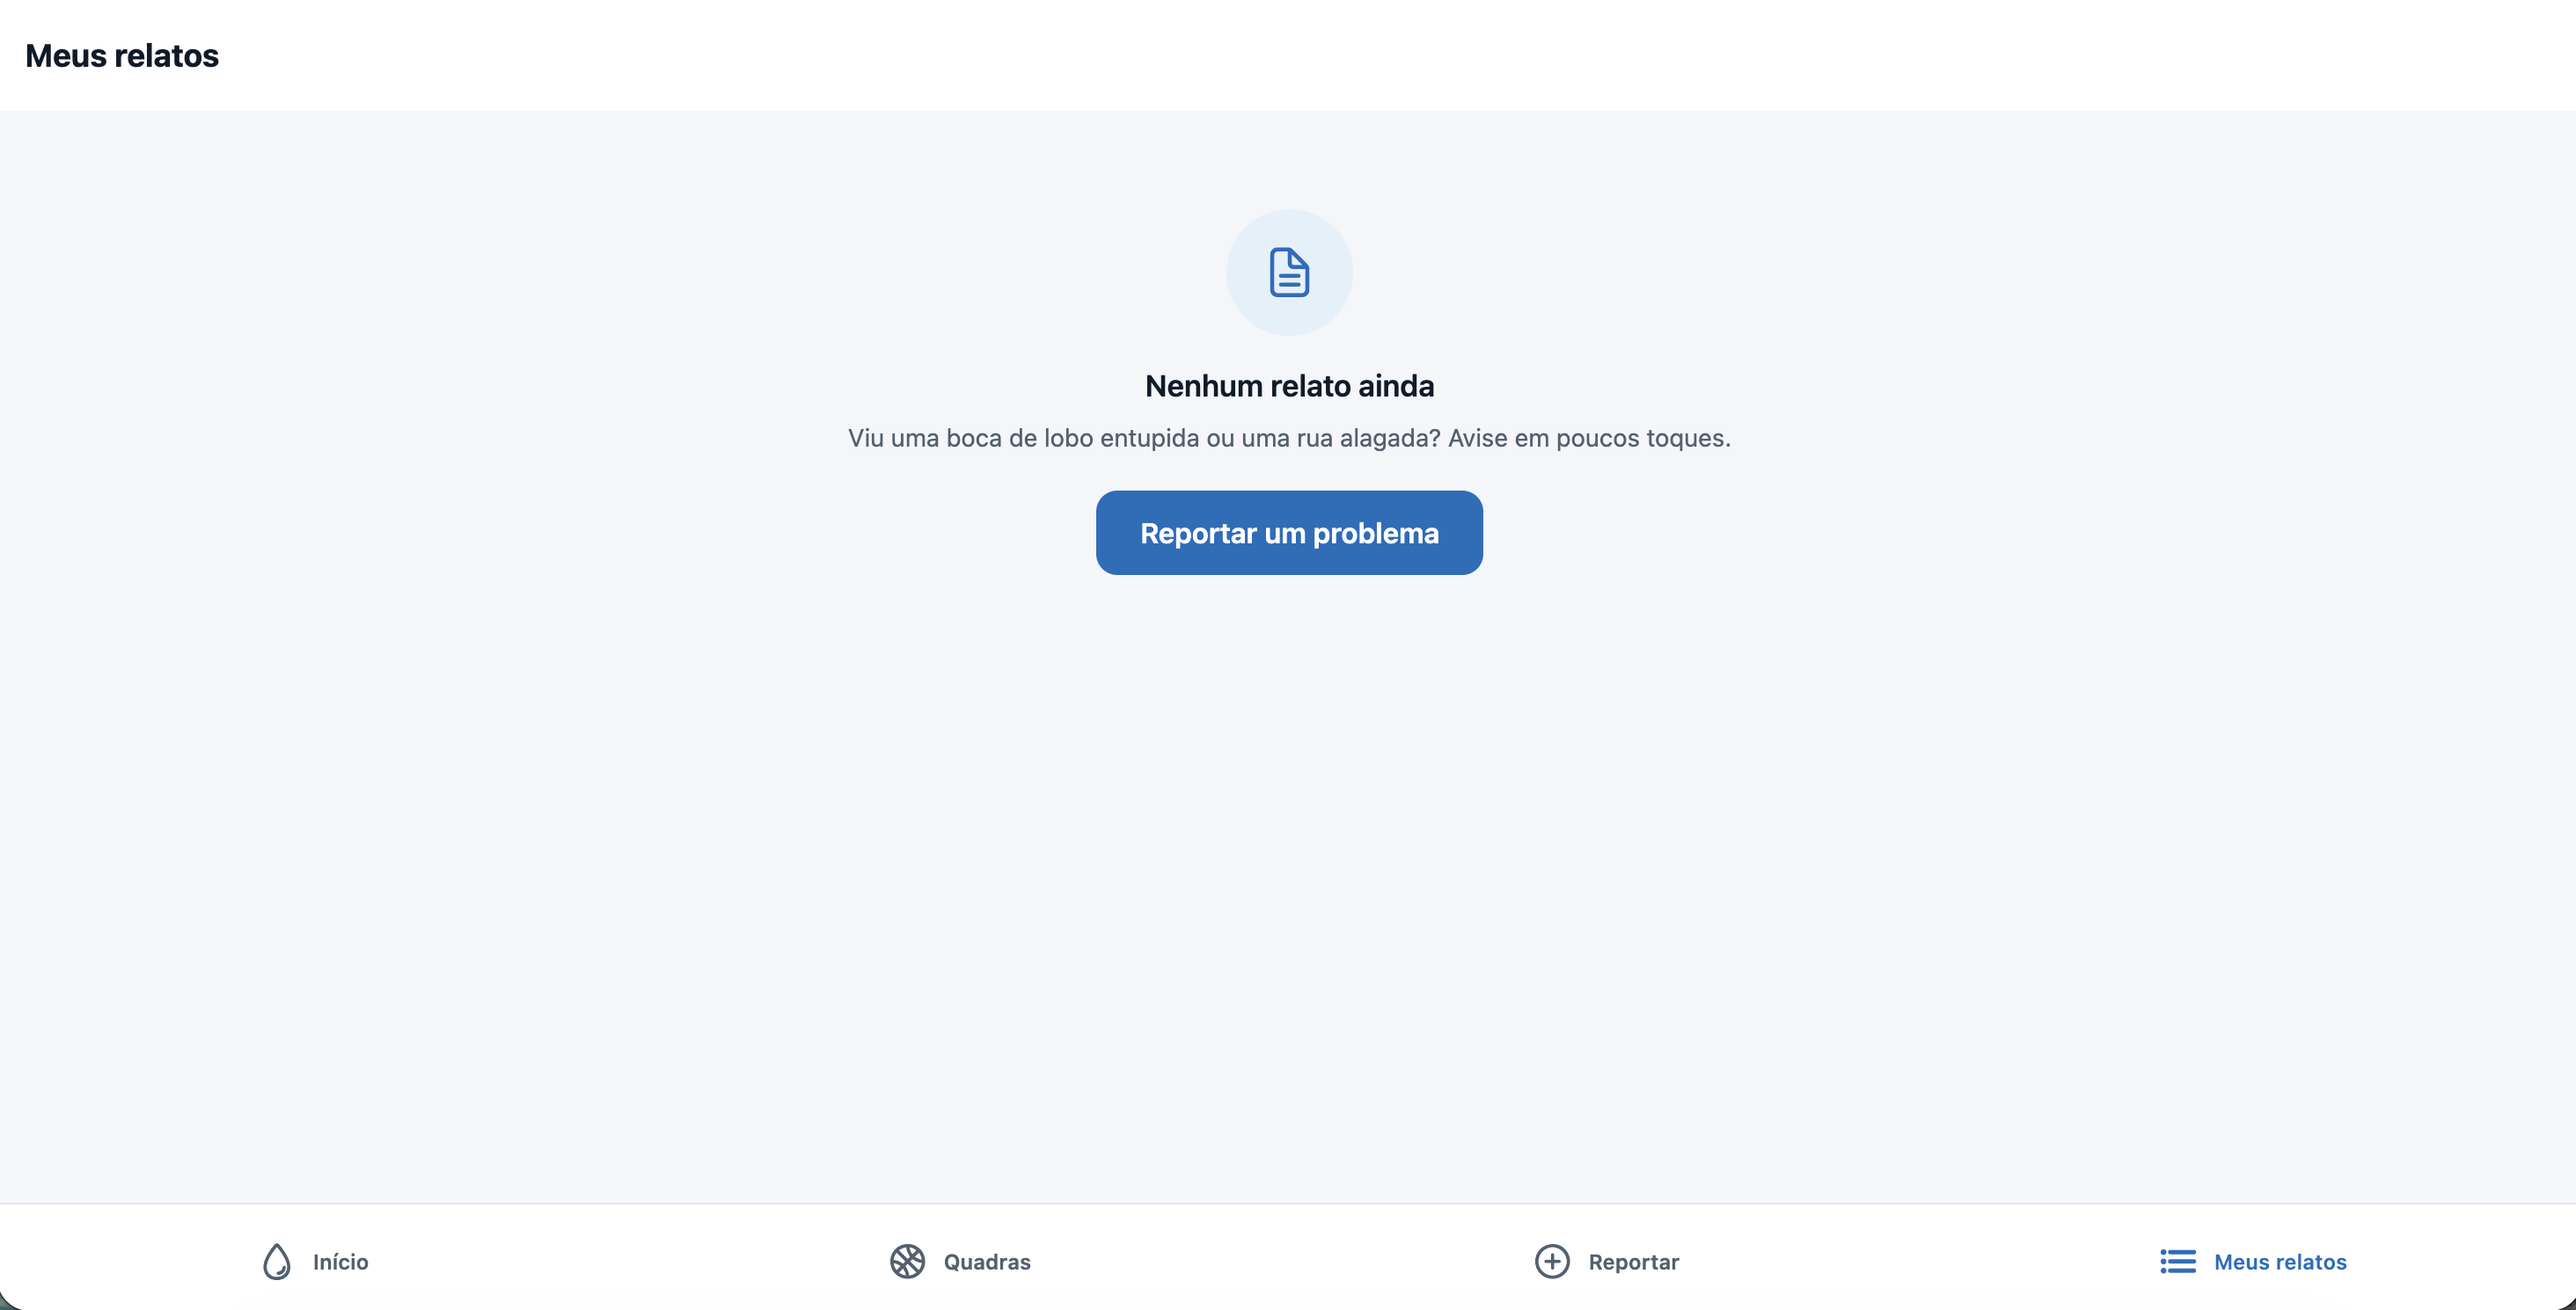
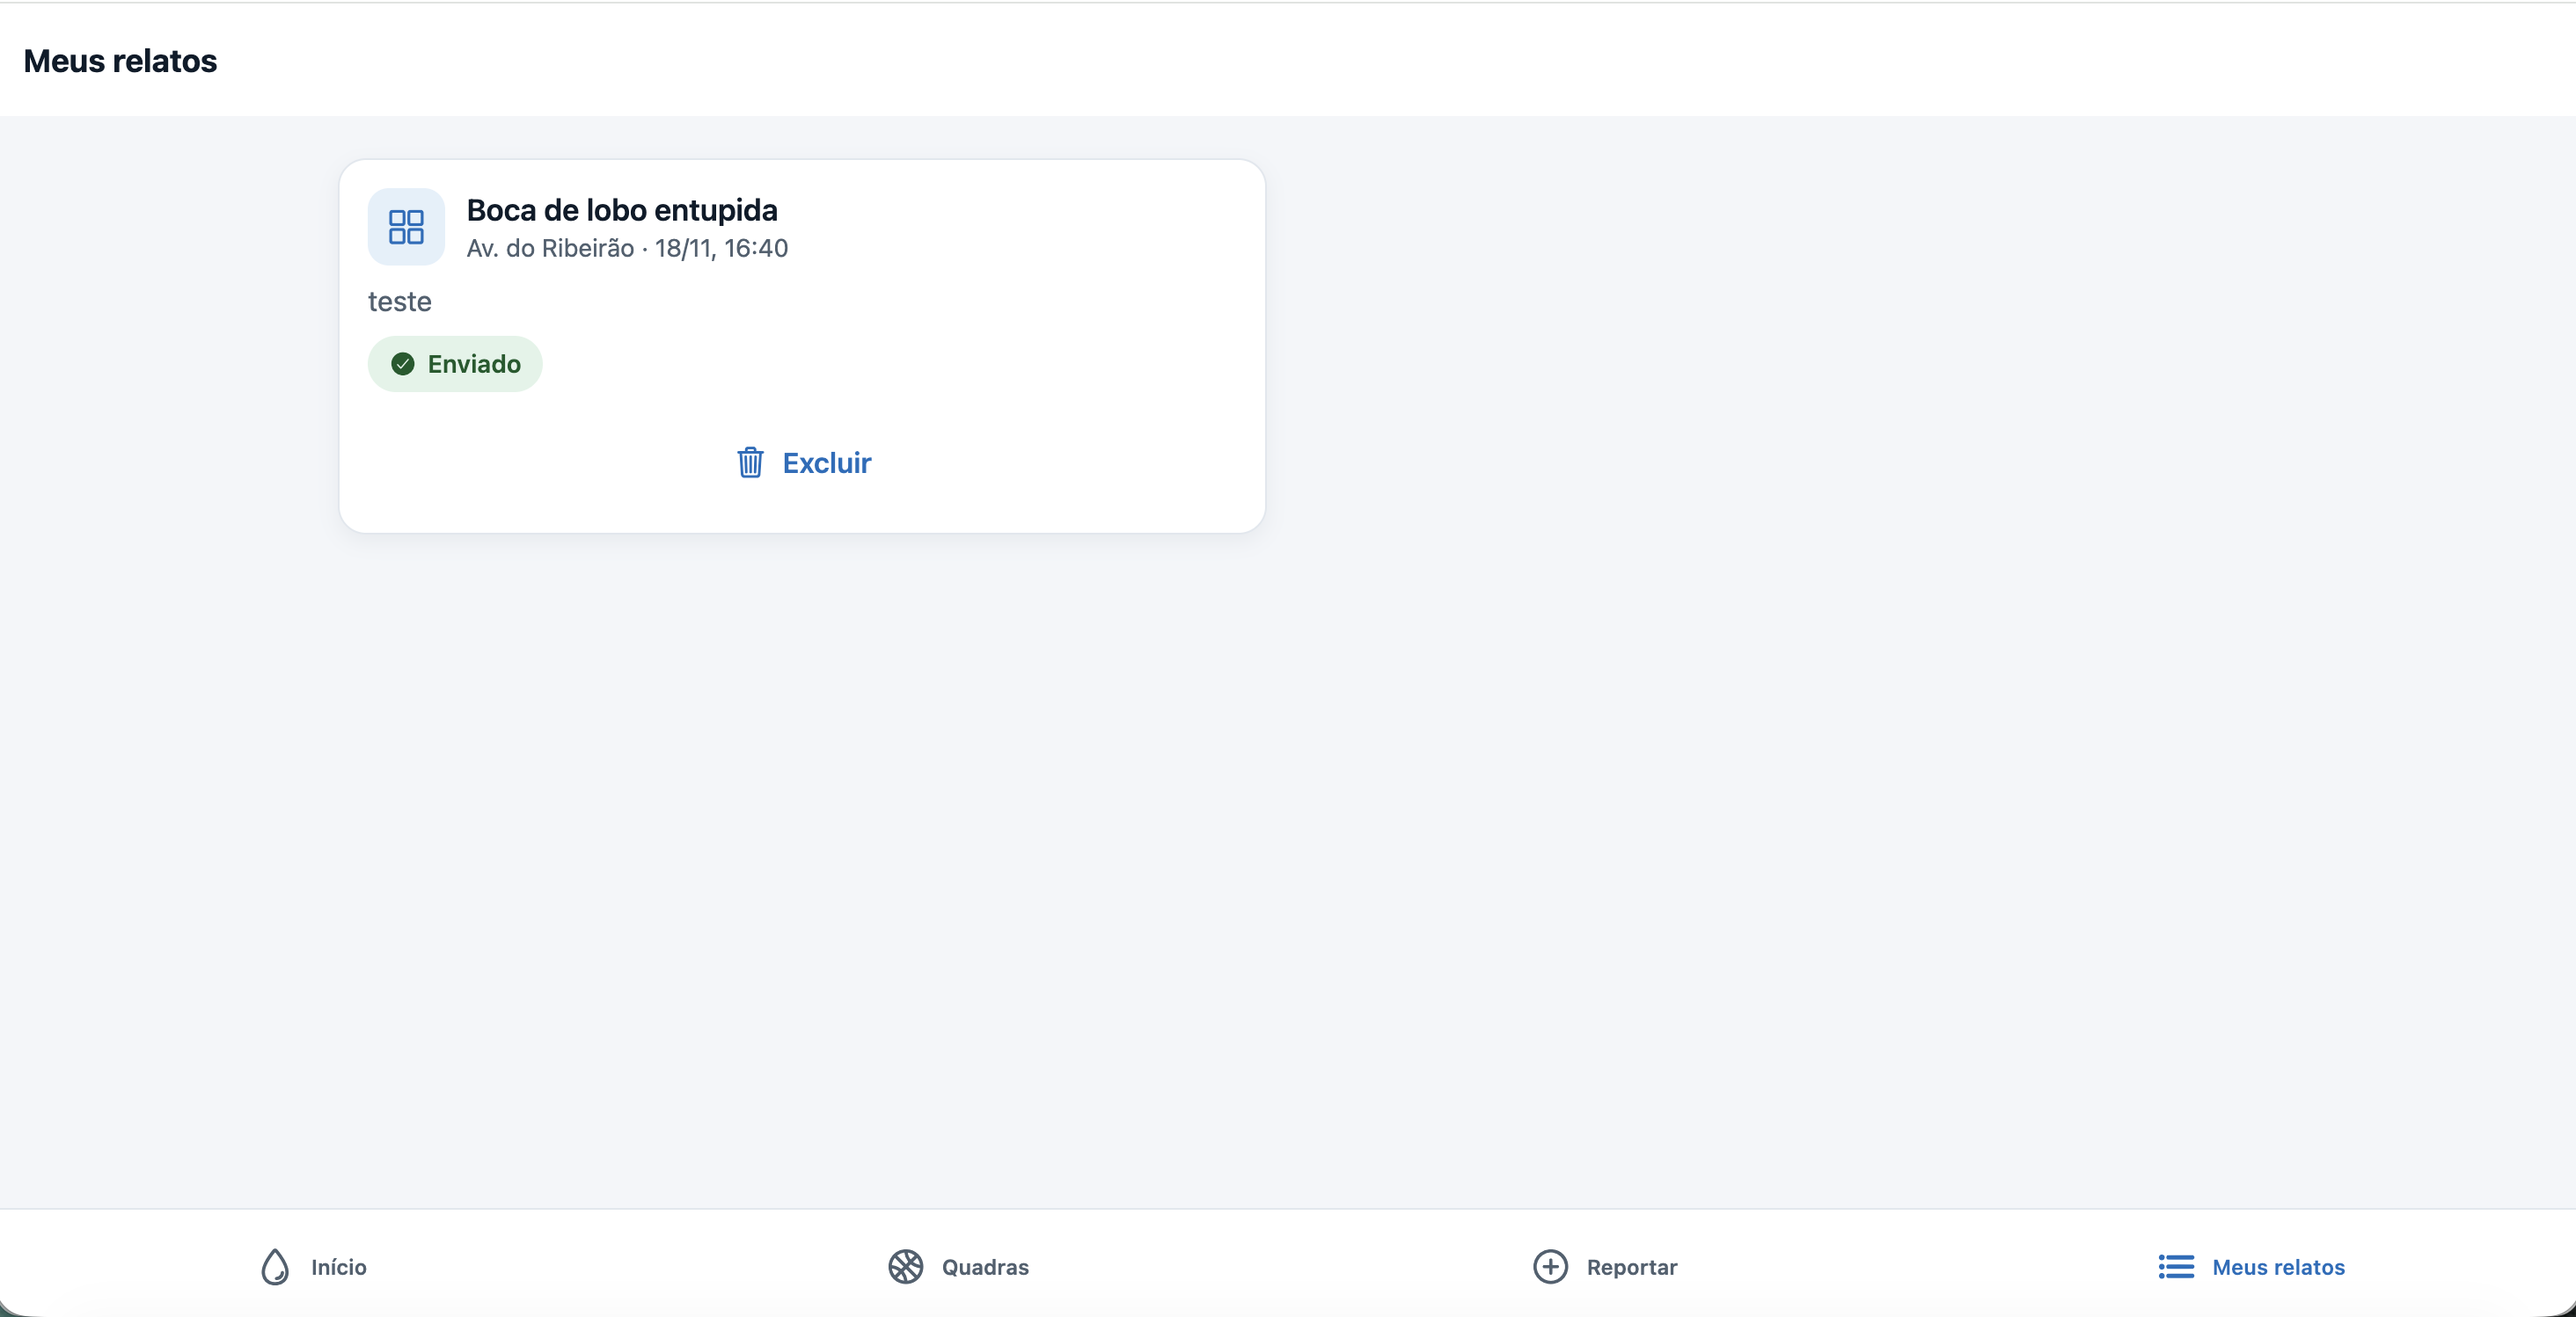
docs: atualizar prints das telas e incluir detalhe da rua

diff --git a/docs/prints/LEIAME.md b/docs/prints/LEIAME.md
@@ -7,12 +7,11 @@ Prints usados no README:
 | `01-inicio.png` | Início (simulação "72 h antes") |
 | `02-quadras.png` | Quadras |
 | `03-reportar.png` | Reportar |
-| `04-meus-relatos.png` | Meus relatos (estado vazio) |
+| `04-meus-relatos.png` | Meus relatos (com um relato enviado) |
+| `05-detalhe-rua.png` | Detalhe da rua |
 
 Ainda vale acrescentar, de preferência tiradas no celular com o Expo Go:
 
-- Detalhe da rua (Início → tocar numa rua).
-- Meus relatos com ao menos um relato enviado.
 - Início em "Durante", com o aviso de quadras travadas.
 
 Como tirar o print: iPhone, botão lateral + aumentar volume. Android, botão ligar + diminuir volume.

diff --git a/README.md b/README.md
@@ -113,6 +113,10 @@ Validação: `npx tsc --noEmit` e `npx eslint src`.
 |---|---|
 | ![Reportar](docs/prints/03-reportar.png) | ![Meus relatos](docs/prints/04-meus-relatos.png) |
 
+| Detalhe da rua |
+|---|
+| ![Detalhe da rua](docs/prints/05-detalhe-rua.png) |
+
 ## Vídeo de demonstração (até 3 min)
 
 **Link:** https://www.youtube.com/watch?v=q2uuUyRqxJk
